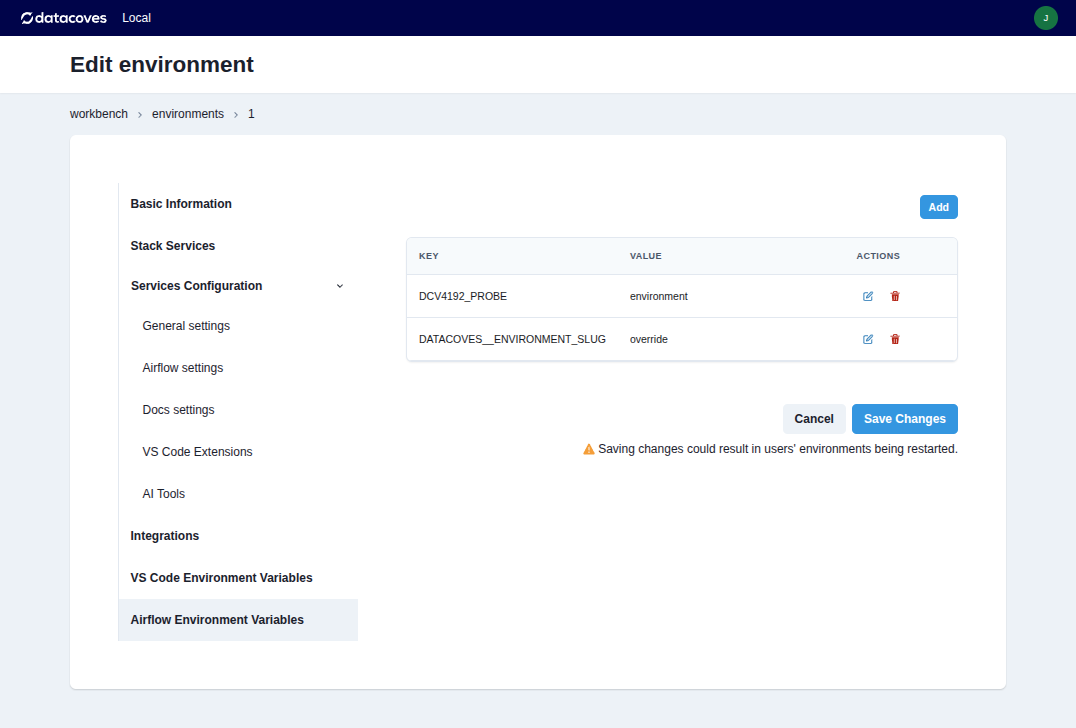
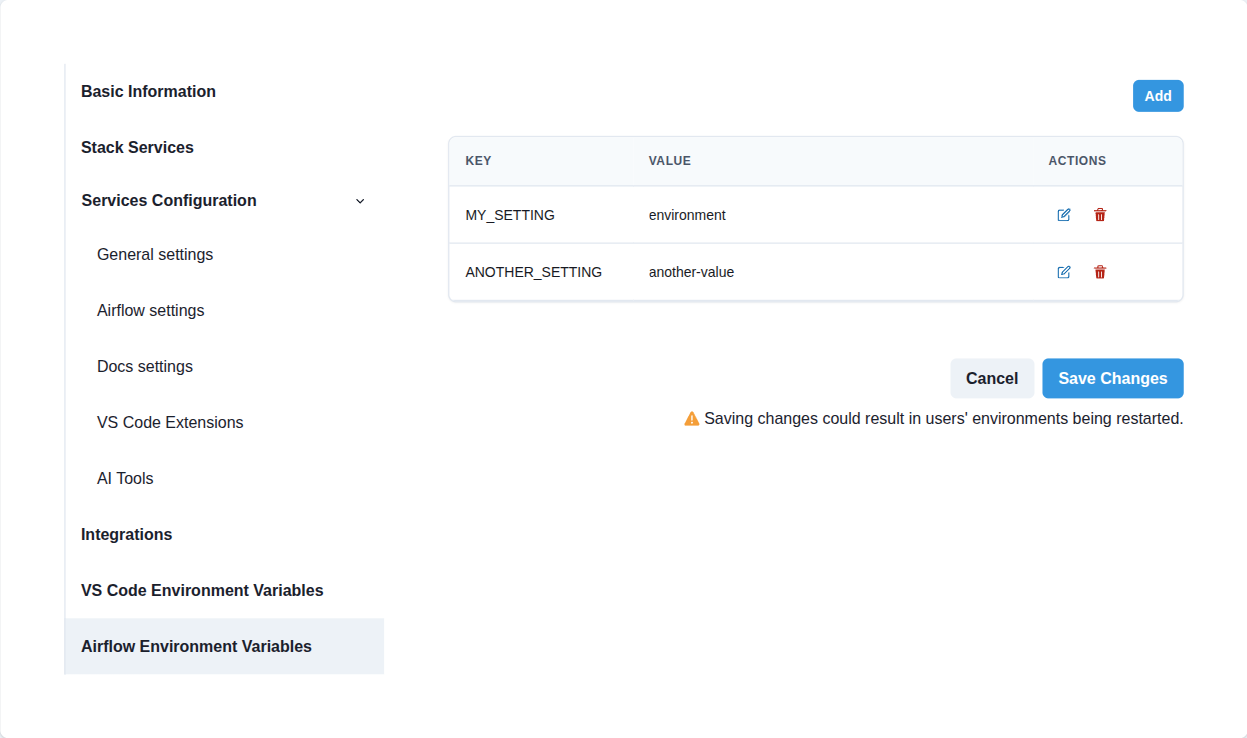
Keep claude login next to claude auth login, neutral Airflow variables screenshot, Test button wording

diff --git a/docs/how-tos/vs-code/external-ai-tools/claude-code.md b/docs/how-tos/vs-code/external-ai-tools/claude-code.md
@@ -21,20 +21,28 @@ sidebar_position: 2
 2. Run:
 
    ```bash
+   claude login
+   ```
+
+   Or run:
+
+   ```bash
    claude auth login
    ```
 
-   To sign in with an Anthropic Console account (API usage billing), run `claude auth login --console`. For
-   your organization's SSO, run `claude auth login --sso`.
+   To sign in with an Anthropic Console account (API usage billing), run `claude auth login --console`. To
+   sign in with your organization's SSO, run `claude auth login --sso`.
 
-3. A [popup](/docs/how-tos/vs-code/open-links) asks where to open the Claude sign-in page. Click **Open in VS
+3. With `claude login`, pick a theme and a login method in the terminal.
+
+4. A [popup](/docs/how-tos/vs-code/open-links) asks where to open the Claude sign-in page. Click **Open in VS
    Code browser** and sign in.
 
-4. If you closed the popup, Ctrl-click (Cmd-click on Mac) the link in the terminal to open it again.
+5. If you closed the popup, Ctrl-click (Cmd-click on Mac) the link in the terminal to open it again.
 
-5. If the sign-in page shows a code, paste it after **Paste code here if prompted** and press **Enter**.
+6. If the sign-in page shows a code, paste it after **Paste code here if prompted** and press **Enter**.
 
-6. Run `claude auth status --text` to check that you're signed in.
+7. Run `claude auth status --text` to check that you're signed in.
 
 Both the CLI and the VS Code extension are now authenticated. To sign out, run `claude auth logout`.
 

diff --git a/docs/how-tos/git/ssh-keys.md b/docs/how-tos/git/ssh-keys.md
@@ -16,8 +16,8 @@ sidebar_position: 71
 
 ### GitHub organizations with SAML SSO
 
-If your GitHub organization uses SAML single sign-on, the key test in User Settings, Git SSH Keys fails with
-`Could not connect to the Git repository` and this error:
+If your GitHub organization uses SAML single sign-on, clicking **Test** in User Settings, Git SSH Keys shows
+`Could not connect to the Git repository`, and its details show this error:
 
 ```
 ERROR: The '<organization>' organization has enabled or enforced SAML SSO. To access this repository, you must
@@ -32,7 +32,7 @@ Authorize the key for your organization in GitHub:
 3. Next to the key you added from Datacoves, click **Configure SSO**.
 4. Next to your organization, click **Authorize**.
 
-Then run the key test in Datacoves again. See
+Then click **Test** in Datacoves again. See
 [Authorizing an SSH key for use with single sign-on](https://docs.github.com/en/authentication/authenticating-with-single-sign-on/authorizing-an-ssh-key-for-use-with-single-sign-on).
 
 ## Clone a Git repository for deployment purposes (read-only access)

diff --git a/docs/reference/airflow/airflow-variables.md b/docs/reference/airflow/airflow-variables.md
@@ -4,10 +4,11 @@ sidebar_label: Variables
 description: "Reference for Datacoves-injected Airflow variables: DAG paths, dbt settings, environment slugs, version info, and notification configuration."
 sidebar_position: 123
 ---
-Datacoves injects several environment variables into Apache Airflow to streamline workflow configurations. Below is a list of important variables you may encounter:
-
-To add your own, see
+Datacoves injects several environment variables into Apache Airflow to streamline workflow configurations. To
+add your own, see
 [Airflow Environment Variables](/docs/how-tos/datacoves/how_to_environment_variables#airflow-environment-variables).
+
+Below is a list of important variables you may encounter:
 
 ## Airflow information
 Variables containing information about Airflow:

diff --git a/docs/how-tos/vs-code/open-links.md b/docs/how-tos/vs-code/open-links.md
@@ -29,6 +29,6 @@ Closes the popup without opening the link. Escape does the same.
 
 ## Sign-in pages
 
-Links opened by terminal commands, like the sign-in page of `claude auth login`, and by other VS Code
-extensions show the same popup. A sign-in page that returns to `localhost` when you finish only completes in the VS Code
-browser.
+Links opened by terminal commands, like the sign-in page of `claude login`, and by other VS Code
+extensions show the same popup. A sign-in page that returns to `localhost` when you finish only completes in
+the VS Code browser.
